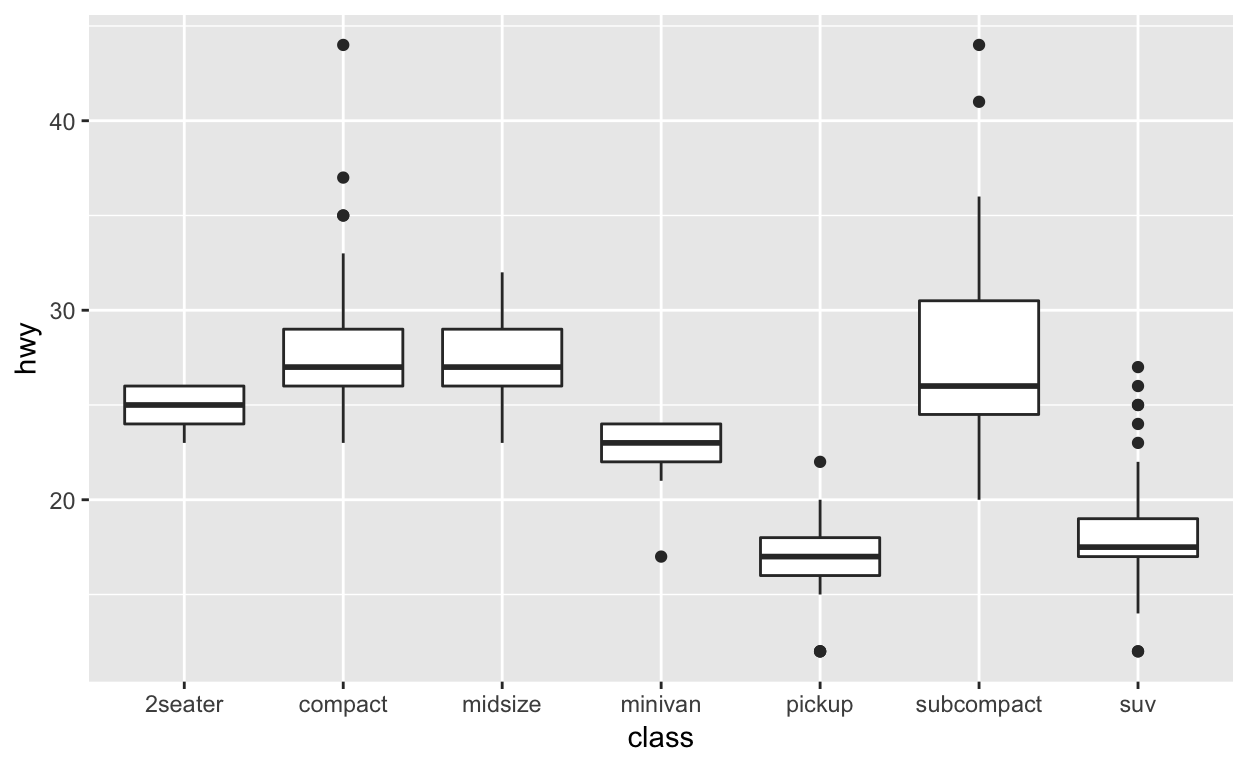
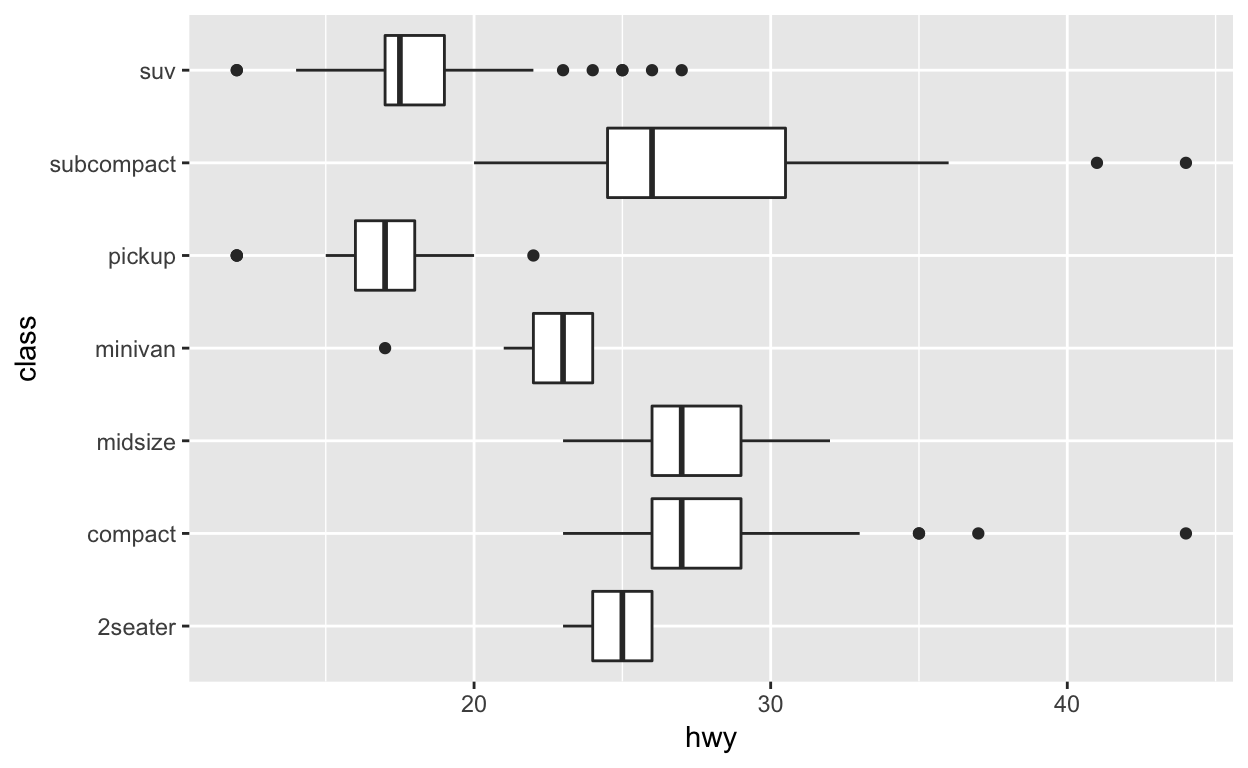
Update coord_flip example

diff --git a/Tutorial 3/Tutorial_3.md b/Tutorial 3/Tutorial_3.md
@@ -323,7 +323,8 @@ ggplot(data = mpg, mapping = aes(x = drv, y = cty, fill= drv)) +
 
 ``` r
 ggplot(data = mpg) + 
-  geom_boxplot(aes(x = class, y = hwy))
+  geom_boxplot(aes(x = class, y = hwy)) +
+  coord_flip()
 
 ```  
 ![](Tutorial_3_files/figure-markdown_github/coord-1.png)
